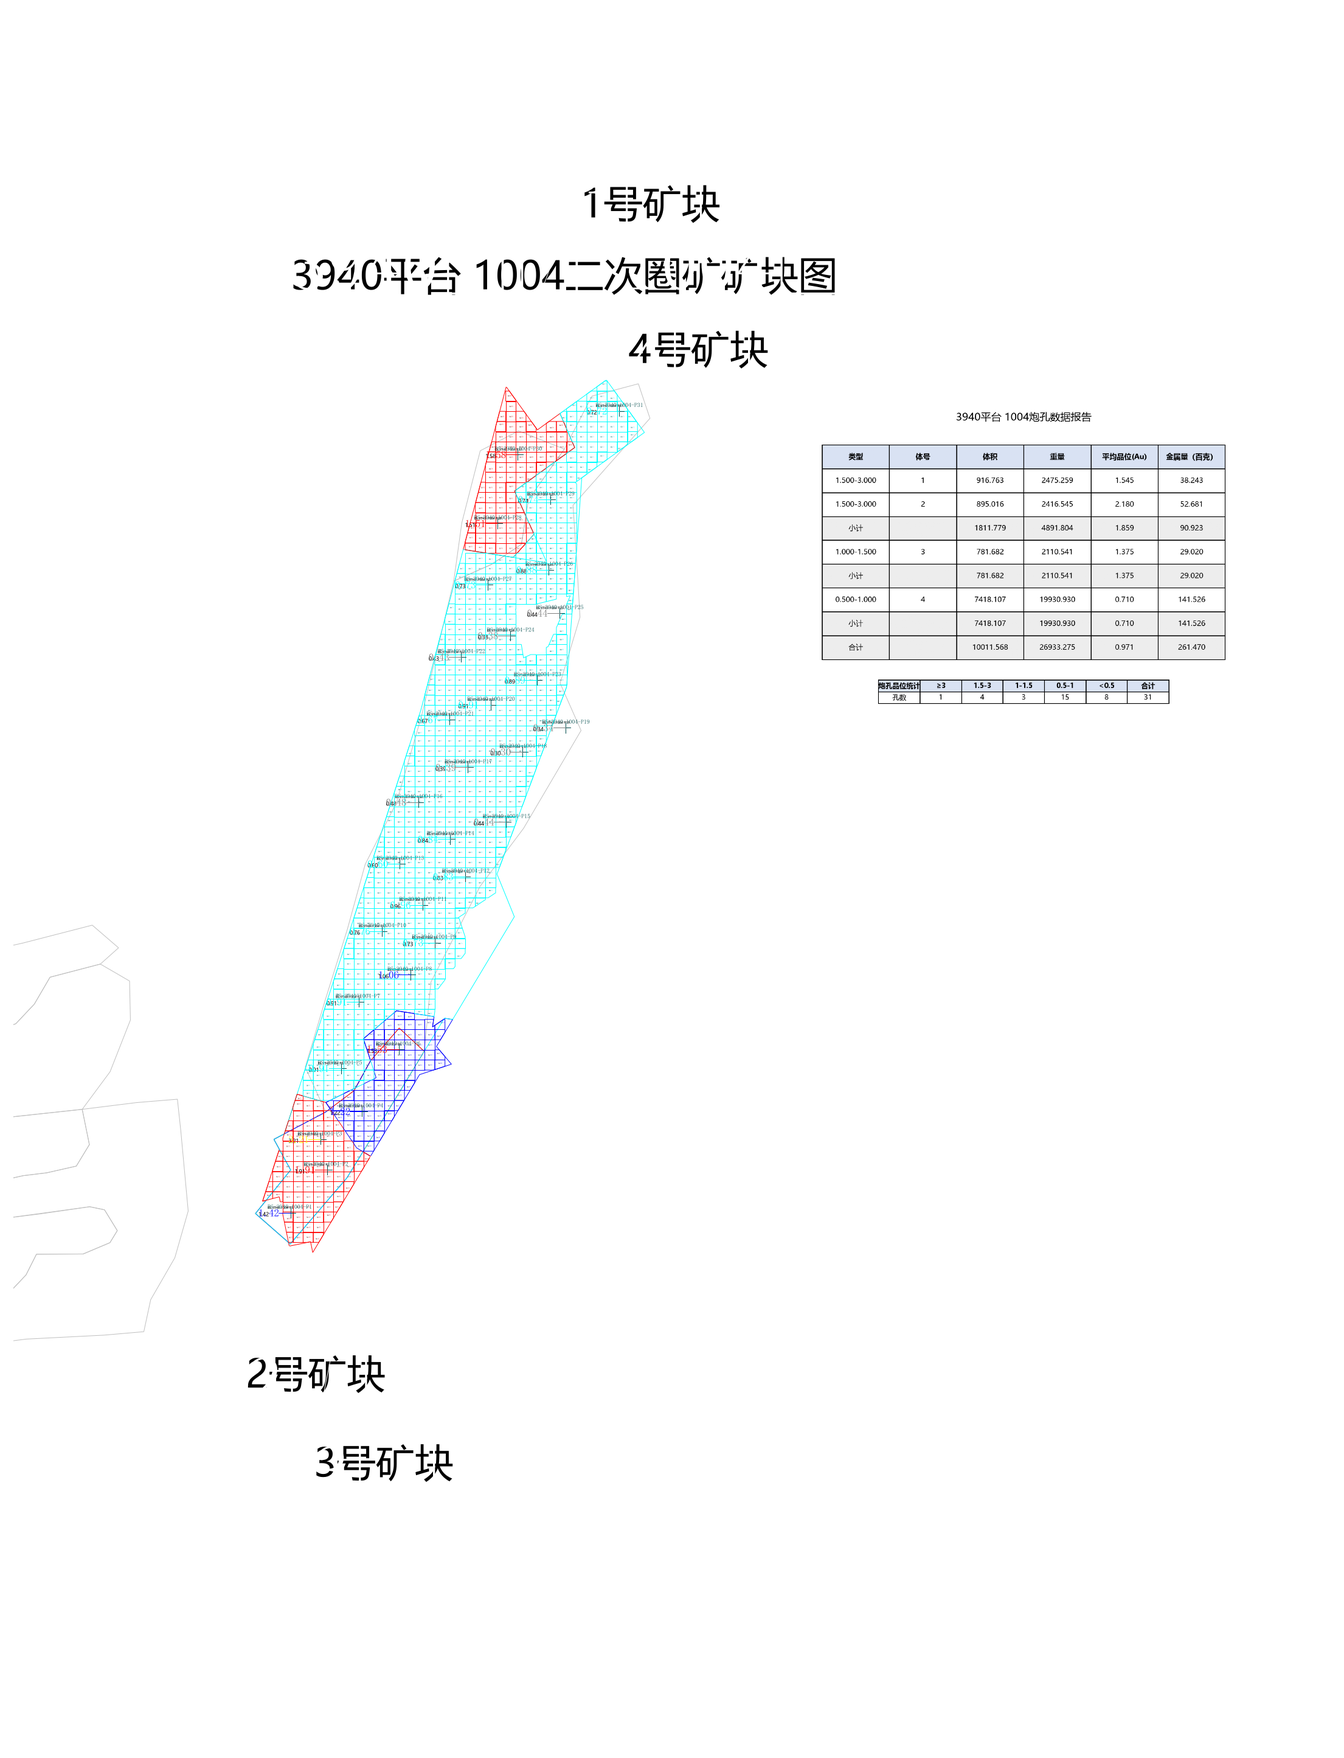
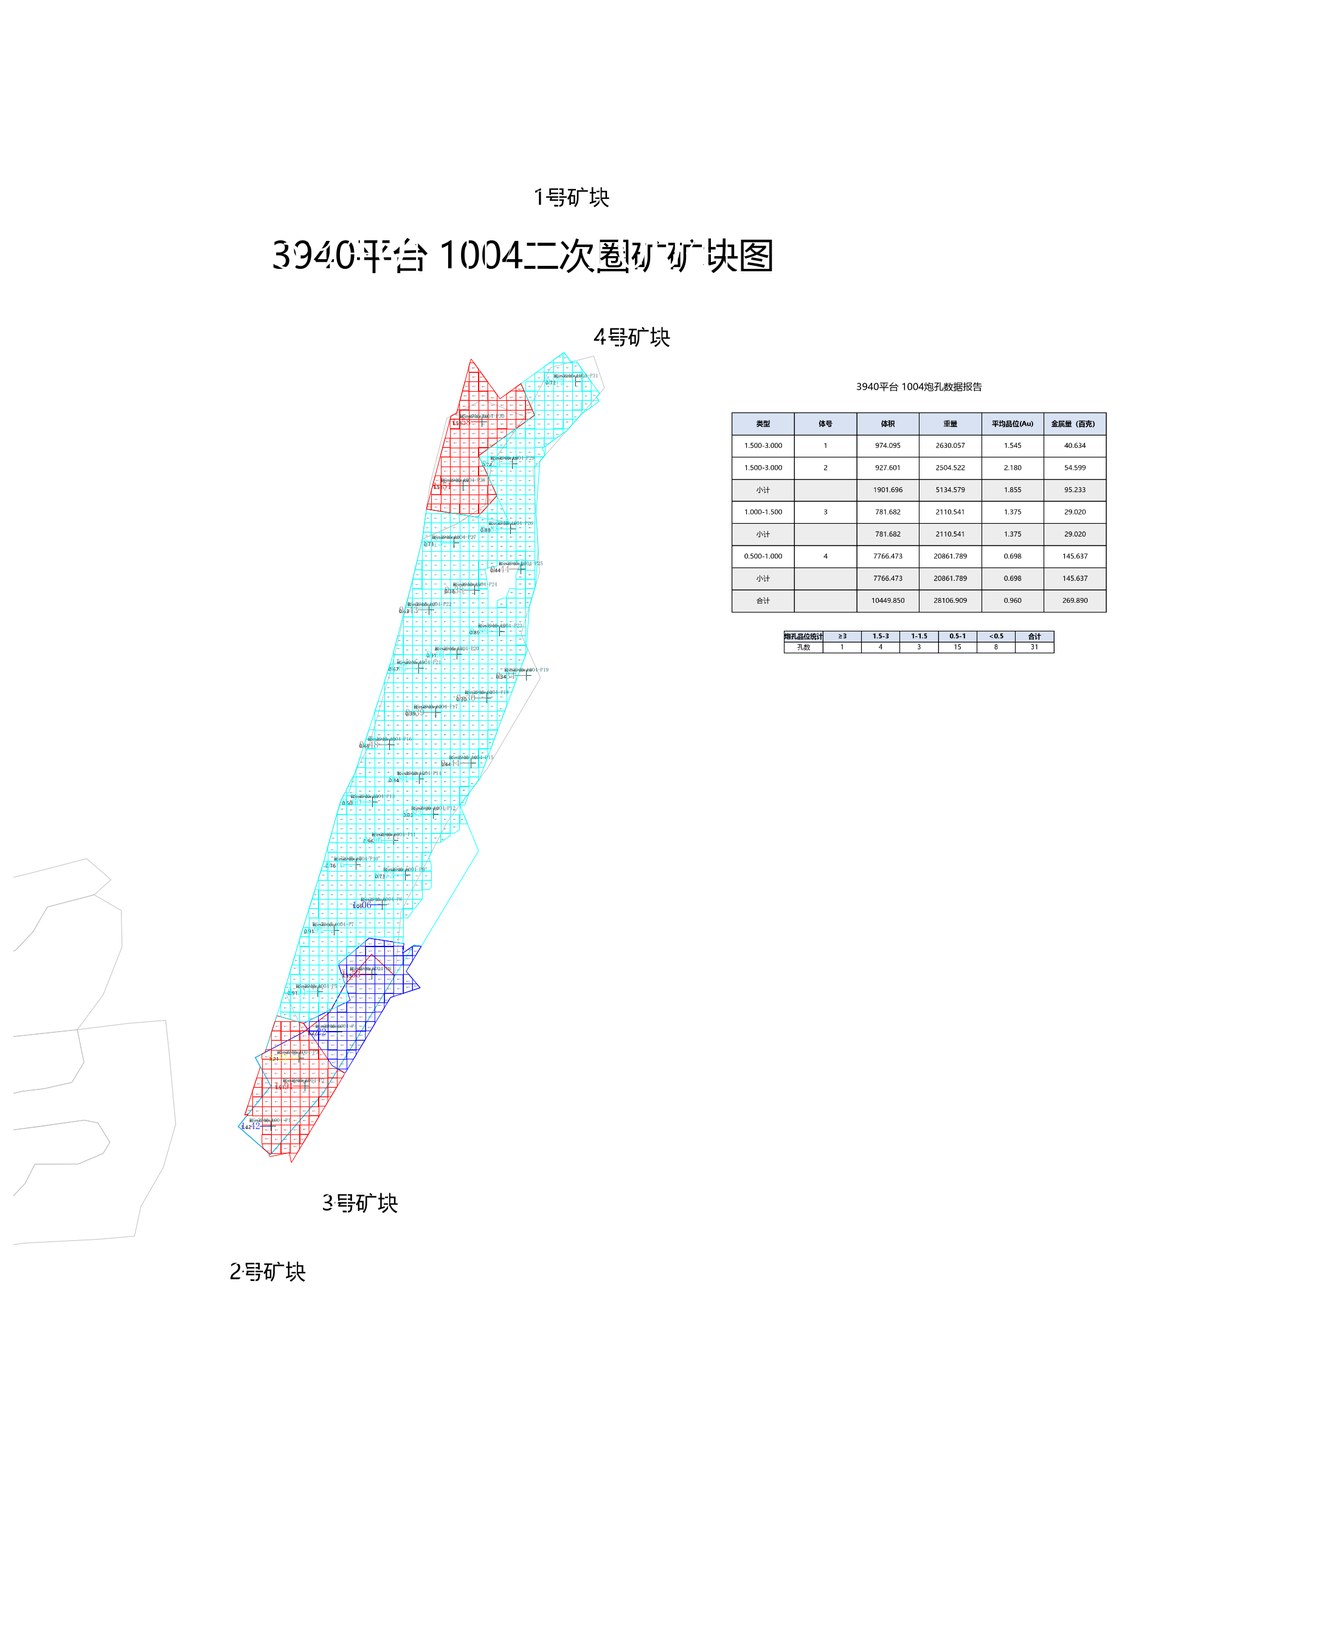
probe+core: 验收加'严格档'(排掉综合图里与人工图重合的当日本身块，模拟新炮区)——3940 体积在严格档下反而更准(1003 +0.0%/1004 +1.4%)；3960-0919 穷举左右链+几何原型都到不了人工图(IoU 0.757/0.617 封顶)，回退到诚实最优 0.744/1块/-2.9% 并关掉贴合(那块 374.6m² 是它自己)；新增精确模式 ring_from_outline_files(人工 3DMine 导出的分段 .3ds 自动按端点拼接)——1008 实测 IoU 0.962

diff --git a/3DMine二次圈矿工具_初步原型/_probe/selftest.py b/3DMine二次圈矿工具_初步原型/_probe/selftest.py
@@ -2,7 +2,14 @@
 """验收自检（回归闸门，多平台）：拿人工图/人工报告当基准，打印自动结果的差距。
 
 用法: python selftest.py [平台号 ...]      # 缺省跑 3940 和 3960
+      python selftest.py --strict-only 3940  # 只看严格档
   退出码 0 = 全部达标；1 = 有指标退化（改代码前后各跑一次）
+
+两档对账（用户 2026-10-14 要求加严格档）：
+  ① 常规档：综合图里含"当日本身已经圈过的块"时也照样贴——就是现在生产用的跑法。
+  ② **严格档**：把综合图里与人工图某块几乎重合（IoU ≥ 0.9）的那些块**排掉**再跑，
+     模拟"新的一炮、当天的块还没进综合图"的真实场景。严格档只报数、不设闸门
+     （它的分数天然低——3940/3960 的综合图里都混着当日的块）。
 
 达标线：
   3940-1008：矿界 IoU ≥ 0.90 且体积差 ≤ ±5%   （已验收的基线）
@@ -43,10 +50,11 @@ LIMIT = {"3940-1008": (0.90, 0.05), "3940-0922": (0.60, 0.10)}
 DEFAULT_LIMIT = {"3940": (0.75, 0.20), "3960": (0.35, 0.30)}
 
 
-def manual_poly(platform: str, date: str, holes=None):
+def manual_blocks(platform: str, date: str, holes=None):
+    """人工图里算作"矿块"的折线（列表）。"""
     f = _bl.scan_path(platform, date)
     if not f.exists():
-        return None
+        return []
     j = json.loads(f.read_text(encoding="utf-8"))
     polys = []
     for p in j["polylines"]:
@@ -55,7 +63,34 @@ def manual_poly(platform: str, date: str, holes=None):
         poly = Polygon(p["pts"]).buffer(0)
         if _bl.is_block(poly, p["layer"], holes):
             polys.append(poly)
+    return polys
+
+
+def manual_poly(platform: str, date: str, holes=None):
+    polys = manual_blocks(platform, date, holes)
     return unary_union(polys) if polys else None
+
+
+def strip_own_blocks(comp, man_blocks, tol: float = 0.9):
+    """严格档用：把综合图里"与人工图某块几乎重合"的历史块排掉。
+
+    那些块就是**当日本身**已经被并进综合图的副本（0915 那 7 块、0919 那块 374.6
+    都是顶点级一致），拿它来对账等于自己跟自己贴。返回 (保留的块, 排掉几个)。
+    """
+    keep, dropped = [], 0
+    for item in comp:
+        blk = item[2] if isinstance(item, (tuple, list)) and len(item) >= 3 else item
+        dup = False
+        for m in man_blocks:
+            u = blk.union(m).area
+            if u > 0 and blk.intersection(m).area / u >= tol:
+                dup = True
+                break
+        if dup:
+            dropped += 1
+        else:
+            keep.append(item)
+    return keep, dropped
 
 
 def composite_of(plat_dir: Path):
@@ -72,7 +107,8 @@ def main() -> None:
     except Exception:
         pass
     want = [a for a in sys.argv[1:] if not a.startswith("-")] or list(PLATFORMS)
-    bad, rows = [], []
+    strict_only = "--strict-only" in sys.argv
+    bad, rows, srows = [], [], []
     for plat in want:
         plat_dir = PLATFORMS.get(plat)
         if plat_dir is None or not plat_dir.exists():
@@ -87,44 +123,72 @@ def main() -> None:
             date = folder.name.split("-")[-1].strip()
             xls = (sorted(folder.glob("1、*.xls")) or sorted(folder.glob("*.xls")))[0]
             holes = load_holes_xls(xls)
-            man = manual_poly(plat, date, list(holes.values()))
+            mblocks = manual_blocks(plat, date, list(holes.values()))
+            man = unary_union(mblocks) if mblocks else None
             if man is None:
                 continue        # 这个炮区还没有人工图扫描，不纳入闸门
             P = _params.for_blast(date, platform=plat)
-            try:
-                res = run_blast(holes, list(holes.values()), P, comp, blast=date)
-            except Exception as exc:
-                rows.append(("%s-%s" % (plat, date), "-", "-", "-", "算失败：%s" % exc, False))
+
+            def evaluate(comp_used):
+                try:
+                    r = run_blast(holes, list(holes.values()), P, comp_used, blast=date)
+                except Exception as exc:
+                    return None, "算失败：%s" % exc
+                if not r["rings"]:
+                    return None, "没算出矿界"
+                rg = r["rings"][0]
+                for rr in r["rings"][1:]:
+                    rg = rg.union(rr)
+                iou = rg.intersection(man).area / rg.union(man).area
+                tv = sum(b.volume_m3 for b in r["blocks"])
+                mv, src = _bl.volume_for_gate(plat, date, man, r["ore"])
+                if mv is None:
+                    return None, "无基准"
+                out = [h.short for h in r["ore"] if not rg.contains(Point(h.x, h.y))]
+                warn = list(r.get("warn") or [])
+                note = ("基准:%s  " % src) + (("环外孔" + ",".join(out)) if out else
+                                             ("自检修补:%s" % "；".join(warn) if warn else "OK"))
+                return (iou, len(r["blocks"]), tv, mv, note), None
+
+            got, err = evaluate(comp)
+            if got is None:
+                rows.append(("%s-%s" % (plat, date), "-", "-", "-", err, False))
                 continue
-            if not res["rings"]:
-                rows.append(("%s-%s" % (plat, date), "-", "-", "-", "没算出矿界", False))
-                continue
-            ring = res["rings"][0]
-            for rr in res["rings"][1:]:
-                ring = ring.union(rr)
-            iou = ring.intersection(man).area / ring.union(man).area
-            tv = sum(b.volume_m3 for b in res["blocks"])
-            mv, src = _bl.volume_for_gate(plat, date, man, res["ore"])
-            if mv is None:
-                continue
+            iou, nb, tv, mv, note = got
             dev = (tv - mv) / mv
-            out = [h.short for h in res["ore"] if not ring.contains(Point(h.x, h.y))]
-            warn = list(res.get("warn") or [])
-            note = ("基准:%s  " % src) + (("环外孔" + ",".join(out)) if out else \
-                ("自检修补:%s" % "；".join(warn) if warn else "OK")
-                )
             li, ld = LIMIT.get("%s-%s" % (plat, date),
                                DEFAULT_LIMIT.get(plat, (0.70, 0.30)))
             ok = iou >= li and abs(dev) <= ld
             if not ok:
                 bad.append("%s-%s" % (plat, date))
-            rows.append(("%s-%s" % (plat, date), "%.3f" % iou, "%d" % len(res["blocks"]),
+            rows.append(("%s-%s" % (plat, date), "%.3f" % iou, "%d" % nb,
                          "%9.1f / %9.1f (%+6.1f%%)" % (tv, mv, dev * 100), note, ok))
-    print("%-12s %-7s %-5s %-28s %s" % ("炮区", "矿界IoU", "块数", "体积(自动/人工)", "备注"))
-    for r in rows:
-        print("%-12s %-7s %-5s %-28s %s%s" % (r[0], r[1], r[2], r[3], r[4],
-                                              "" if r[5] else "   ← 未达标"))
-    print()
+            # 严格档：排掉当日本身已进综合图的块再跑一遍
+            comp2, ndrop = strip_own_blocks(comp, mblocks)
+            got2, err2 = evaluate(comp2)
+            if got2 is None:
+                srows.append(("%s-%s" % (plat, date), "-", "-", "-",
+                              "%s（排掉 %d 块）" % (err2, ndrop)))
+            else:
+                iou2, nb2, tv2, mv2, _ = got2
+                srows.append(("%s-%s" % (plat, date), "%.3f" % iou2, "%d" % nb2,
+                              "%9.1f / %9.1f (%+6.1f%%)" % (tv2, mv2, 100 * (tv2 - mv2) / mv2),
+                              "排掉当日本身 %d 块（人工图 %d 块）" % (ndrop, len(mblocks))))
+
+    def dump(title, data, mark_bad):
+        print(title)
+        print("%-12s %-7s %-5s %-28s %s" % ("炮区", "矿界IoU", "块数", "体积(自动/人工)", "备注"))
+        for r in data:
+            print("%-12s %-7s %-5s %-28s %s%s" % (r[0], r[1], r[2], r[3], r[4],
+                                                  "" if (len(r) < 6 or r[5] or not mark_bad)
+                                                  else "   ← 未达标"))
+        print()
+
+    if not strict_only:
+        dump("【常规档】综合图里含当日本身的块也照样贴（生产跑法）", rows, True)
+    if srows:
+        dump("【严格档】把综合图里与人工图某块重合的「当日本身块」排掉（＝新炮区场景，只报数不设闸门）",
+             srows, False)
     if bad:
         print("未达标：%s" % "、".join(bad))
         sys.exit(1)

diff --git a/3DMine二次圈矿工具_初步原型/core/strip.py b/3DMine二次圈矿工具_初步原型/core/strip.py
@@ -781,6 +781,81 @@ def _voronoi_cells(ore, clip: Polygon):
     return _cells_within(ore, clip)
 
 
+def read_3ds_polylines(path):
+    """读 3DMine 导出的 .3ds 字符串文件，返回若干条折线的 (E, N) 坐标表。
+
+    文件里顶点行形如 `1,<N>,<E>,<Z>,[附加属性...]`；表头行也是 `1,7,0,1.00,...`
+    开头（早期版本把它当顶点会多出一个 (0,7) 假点），所以这里要求第 2、3 段
+    解析成"像坐标"的数（量级 ≥ 1e4）才算顶点。
+    """
+    from pathlib import Path
+    txt = Path(path).read_bytes().decode("gbk", "replace")
+    out, cur = [], []
+    for line in txt.splitlines():
+        s = line.strip()
+        if not s:
+            continue
+        parts = [x.strip() for x in s.split(",")]
+        if parts and parts[0] == "1" and len(parts) >= 4:
+            try:
+                n = float(parts[1])
+                e = float(parts[2])
+            except ValueError:
+                n = e = 0.0
+            if abs(n) >= 1e4 and abs(e) >= 1e4:
+                cur.append((e, n))                  # X = E, Y = N
+                continue
+        if cur:
+            out.append(cur)
+            cur = []
+    if cur:
+        out.append(cur)
+    return [c for c in out if len(c) >= 2]
+
+
+def ring_from_outline_files(paths, tol: float = 0.35):
+    """精确模式：把人工在 3DMine 里画好的几段线拼成一个闭合矿界。
+
+    用户 2026-10-08 就是这么给 1008 的（左边界已外推 / 与综合图边界 /
+    右边界已外推 / 右上边界），拼接顺序按"端点最近"自动串起来（首尾相接），
+    不需要人工排序；串好后若首尾不重合，再回到起点闭合。
+    """
+    segs = []
+    for p in paths:
+        segs += [list(map(tuple, s)) for s in read_3ds_polylines(p)]
+    if not segs:
+        return None
+    if len(segs) == 1:
+        pts = segs[0]
+        if math.hypot(pts[0][0] - pts[-1][0], pts[0][1] - pts[-1][1]) > 0.01:
+            pts = pts + [pts[0]]
+        poly = Polygon(pts).buffer(0)
+        return poly if not poly.is_empty else None
+    # 贪心串线：每次找端点离当前末端最近的一段（两端都试）
+    cur = list(segs.pop(0))
+    while segs:
+        best = None
+        for i, s in enumerate(segs):
+            for rev in (False, True):
+                pts = list(reversed(s)) if rev else list(s)
+                d = math.hypot(pts[0][0] - cur[-1][0], pts[0][1] - cur[-1][1])
+                if best is None or d < best[0]:
+                    best = (d, i, rev, pts)
+        d, i, rev, pts = best
+        if d > max(tol, 5.0):
+            break
+        segs.pop(i)
+        cur += pts[1:] if d < 1e-9 else pts
+    if math.hypot(cur[0][0] - cur[-1][0], cur[0][1] - cur[-1][1]) > 0.01:
+        cur.append(cur[0])
+    poly = Polygon(cur).buffer(0)
+    if poly.is_empty:
+        return None
+    if poly.geom_type == "MultiPolygon":
+        poly = max(poly.geoms, key=lambda g: g.area)
+    return poly
+
+
 def join_to_composite(ring, comp_blocks, gap: float = 0.5):
     """把"贴着综合图历史矿块"的那条窄边吸收进来（用户规则：能并在一起就并在一起）。
 

diff --git a/3DMine二次圈矿工具_初步原型/_probe/_review0919.py b/3DMine二次圈矿工具_初步原型/_probe/_review0919.py
@@ -1,0 +1,45 @@
+# -*- coding: utf-8 -*-
+"""3960-0919 审图：人工(红) vs 自动(蓝) vs 严格档(绿)"""
+import sys, json
+from pathlib import Path
+ROOT = Path(".").resolve()
+sys.path.insert(0, str(ROOT/"core")); sys.path.insert(0, str(ROOT/"_probe"))
+import matplotlib; matplotlib.use("Agg")
+import matplotlib.pyplot as plt
+matplotlib.rcParams["font.sans-serif"]=["Microsoft YaHei","SimHei"]; matplotlib.rcParams["axes.unicode_minus"]=False
+from shapely.geometry import Polygon, Point
+from shapely.ops import unary_union
+from oreblocks import load_holes_xls
+from pipeline import run_blast
+from composite import load_composite_blocks
+import params as _params, baseline as _bl
+plat, date = "3960", "0919"
+pdir=ROOT.parent/("北部山头%s平台2026" % plat)
+folder=[d for d in (pdir/"7、单日数据").iterdir() if d.is_dir() and d.name.endswith(date)][0]
+holes=load_holes_xls(sorted(folder.glob("1、*.xls"))[0]); allh=list(holes.values())
+comp_all=load_composite_blocks(sorted(pdir.glob("*综合*.dwg"))[0])
+j=json.loads(_bl.scan_path(plat,date).read_text(encoding="utf-8"))
+mb=[Polygon(p["pts"]).buffer(0) for p in j["polylines"] if p["layer"] not in {"爆区方格网","钻孔","点","线条","孔口文字"} and len(p["pts"])>=3 and _bl.is_block(Polygon(p["pts"]).buffer(0),p["layer"],allh)]
+man=unary_union(mb)
+base=_params.for_blast(date,platform=plat)
+def ring_of(comp, **kw):
+    P=dict(base); P.update(kw)
+    r=run_blast(holes, allh, P, comp, blast=date)
+    g=r["rings"][0]
+    for rr in r["rings"][1:]: g=g.union(rr)
+    return g, r
+g_norm, r_norm = ring_of(comp_all, extrude_m=6.0, seam_join_m=0.5)
+g_old, r_old = ring_of(comp_all, extrude_m=7.0, seam_join_m=0.0)
+fig,ax=plt.subplots(figsize=(15,13))
+for g in ([man] if man.geom_type=="Polygon" else list(man.geoms)):
+    x,y=g.exterior.xy; ax.plot(x,y,color="#d62728",lw=2.4,label="人工图 %.0f m²" % man.area)
+for g,col,ls,lab in ((g_old,"#1f77b4","-","自动 外推7m 不贴合 IoU %.3f 1块 %.0f m³" % (g_old.intersection(man).area/g_old.union(man).area, sum(b.volume_m3 for b in r_old["blocks"]))),
+                     (g_norm,"#9467bd","--","自动 外推6m+贴合0.5m IoU %.3f %d块 %.0f m³" % (g_norm.intersection(man).area/g_norm.union(man).area, len(r_norm["blocks"]), sum(b.volume_m3 for b in r_norm["blocks"])))):
+    for gg in ([g] if g.geom_type=="Polygon" else list(g.geoms)):
+        x,y=gg.exterior.xy; ax.plot(x,y,color=col,ls=ls,lw=1.8,label=lab)
+for h in allh:
+    ax.plot(h.x,h.y,"o",color=("orange" if h.grade>=0.5 else "black"),ms=7)
+    ax.annotate(h.short.replace("BS-3960-0919-","")+"/%.2f"%h.grade,(h.x,h.y),fontsize=9)
+ax.set_aspect("equal"); ax.grid(alpha=.3); ax.legend(fontsize=11)
+ax.set_title("3960-0919 人工图 vs 自动（人工只圈了 7 个矿孔那块，P31 单独一个矿孔没圈）")
+fig.savefig(ROOT/"sample_data"/"output"/"审图_3960-0919.png",dpi=115,bbox_inches="tight"); print("ok")

diff --git a/3DMine二次圈矿工具_初步原型/_probe/_verify_outline_mode.py b/3DMine二次圈矿工具_初步原型/_probe/_verify_outline_mode.py
@@ -1,0 +1,31 @@
+# -*- coding: utf-8 -*-
+"""验证精确模式：用用户 Desktop 上的 1008 四段 .3ds 拼出矿界，与人工 1008 图对账。"""
+import sys, json
+from pathlib import Path
+ROOT = Path(".").resolve()
+sys.path.insert(0, str(ROOT/"core")); sys.path.insert(0, str(ROOT/"_probe"))
+from shapely.geometry import Polygon, Point
+from shapely.ops import unary_union
+from oreblocks import load_holes_xls
+from pipeline import run_blast
+from composite import load_composite_blocks
+import params as _params, baseline as _bl, strip as S
+D = Path(r"C:\Users\Administrator\Desktop")
+parts = ["左边界，已外推3m.3ds", "与综合图边界.3ds", "右边界，已外推3m.3ds",
+         "连接辅助线中点形成右上边界.3ds"]
+ring = S.ring_from_outline_files([D/n for n in parts])
+print("精确模式拼出的矿界：面积 %.3f m²" % ring.area)
+DAY = ROOT.parent/"北部山头3940平台2026"
+folder=[d for d in (DAY/"7、单日数据").iterdir() if d.is_dir() and d.name.endswith("1008")][0]
+holes=load_holes_xls(sorted(folder.glob("1、*.xls"))[0]); allh=list(holes.values())
+j=json.loads(_bl.scan_path("3940","1008").read_text(encoding="utf-8"))
+mb=[Polygon(p["pts"]).buffer(0) for p in j["polylines"] if p["layer"] not in {"爆区方格网","钻孔","点","线条","孔口文字"} and len(p["pts"])>=3 and _bl.is_block(Polygon(p["pts"]).buffer(0),p["layer"],allh)]
+man=unary_union(mb)
+print("人工 1008 图 %.1f m²；与精确模式矿界 IoU %.4f" % (man.area, ring.intersection(man).area/ring.union(man).area))
+comp=load_composite_blocks(DAY/"5、 北部山头3940平台二次圈矿矿块图-2026综合.dwg")
+P=dict(_params.for_blast("1008",platform="3940")); P["outline_files"]=[str(D/n) for n in parts]
+res=run_blast(holes, allh, P, comp, blast="1008")
+print("走 pipeline 精确模式：块数 %d 体积 %.1f m³（人工报告 3951.49）" % (len(res["blocks"]), sum(b.volume_m3 for b in res["blocks"])))
+for b in res["blocks"]:
+    ins=[h.short.replace("BS-3940-1008-","") for h in allh if b.polygon.contains(Point(h.x,h.y))]
+    print("   %s %-14s a=%7.1f vol=%8.1f g=%.4f 孔(%d) %s" % (b.no, b.level_id, b.polygon.area, b.volume_m3, b.grade, len(ins), ",".join(ins)))

diff --git a/3DMine二次圈矿工具_初步原型/core/pipeline.py b/3DMine二次圈矿工具_初步原型/core/pipeline.py
@@ -16,7 +16,8 @@ import math
 
 from oreblocks import load_holes_xls
 from strip import (LAST_RING, average_blocks, block_of_cluster, class_clusters,
-                   isolated_ring, join_to_composite, zone_outline)
+                   isolated_ring, join_to_composite, ring_from_outline_files,
+                   zone_outline)
 
 
 def pick_zone(holes, gap: float = 1.0, adjacent_max: float = 15.0):
@@ -99,6 +100,13 @@ def run_blast(holes, allh, P: dict, comp_blocks=None, blast: str = ""):
         if zi > 0:
             # 孤立小组：用"领地 + 凸包外扩上限"这条规则（邻孔分界线天然挡住）
             ring = isolated_ring(zn, allh, P["extrude_m"], P["simplify_m"])
+        elif P.get("outline_files"):
+            # 精确模式：直接拿人工在 3DMine 里画好的几段线拼出来的矿界
+            ring = ring_from_outline_files(P["outline_files"])
+            if ring is None:
+                ring = zone_outline(zn, allh, P["extrude_m"], comp_blocks=comp_blocks,
+                                    merge_gap=P["merge_gap_m"], blast=blast,
+                                    simplify=P["simplify_m"])
         else:
             ring = zone_outline(zn, allh, P["extrude_m"], comp_blocks=comp_blocks,
                                 merge_gap=P["merge_gap_m"], blast=blast,

diff --git a/3DMine二次圈矿工具_初步原型/core/params.py b/3DMine二次圈矿工具_初步原型/core/params.py
@@ -40,6 +40,11 @@ DEFAULTS = {
     # 综合图边界与矿界间距 ≤ 这个值的地方，把矿界改走历史矿块的边界；
     # 离得远的（> 这个值）不动。0 = 关闭。
     "seam_join_m": 0.5,
+    # 精确模式（用户 2026-10-08 认可保留）：填了就在这个炮区**直接用人工画好的
+    # 外推矿界**，不再自动算矿界。给多个 3DMine 导出的 .3ds 字符串文件路径，
+    # 拼接顺序自动按端点最近串起来（1008 就是左边界/与综合图边界/右边界/右上边界四段）。
+    # 留空 = 走自动圈矿。
+    "outline_files": [],
     "block_merge_gap": 0.0,    # >0 时：相邻两块平均品位差小于它 就并成一块
     "same_block": [],          # 人工指定这些孔算同一块，如 [["P1","P2","P3","P4","P6"]]
     "density_waste": 2.65,     # 0–0.5 档容重
